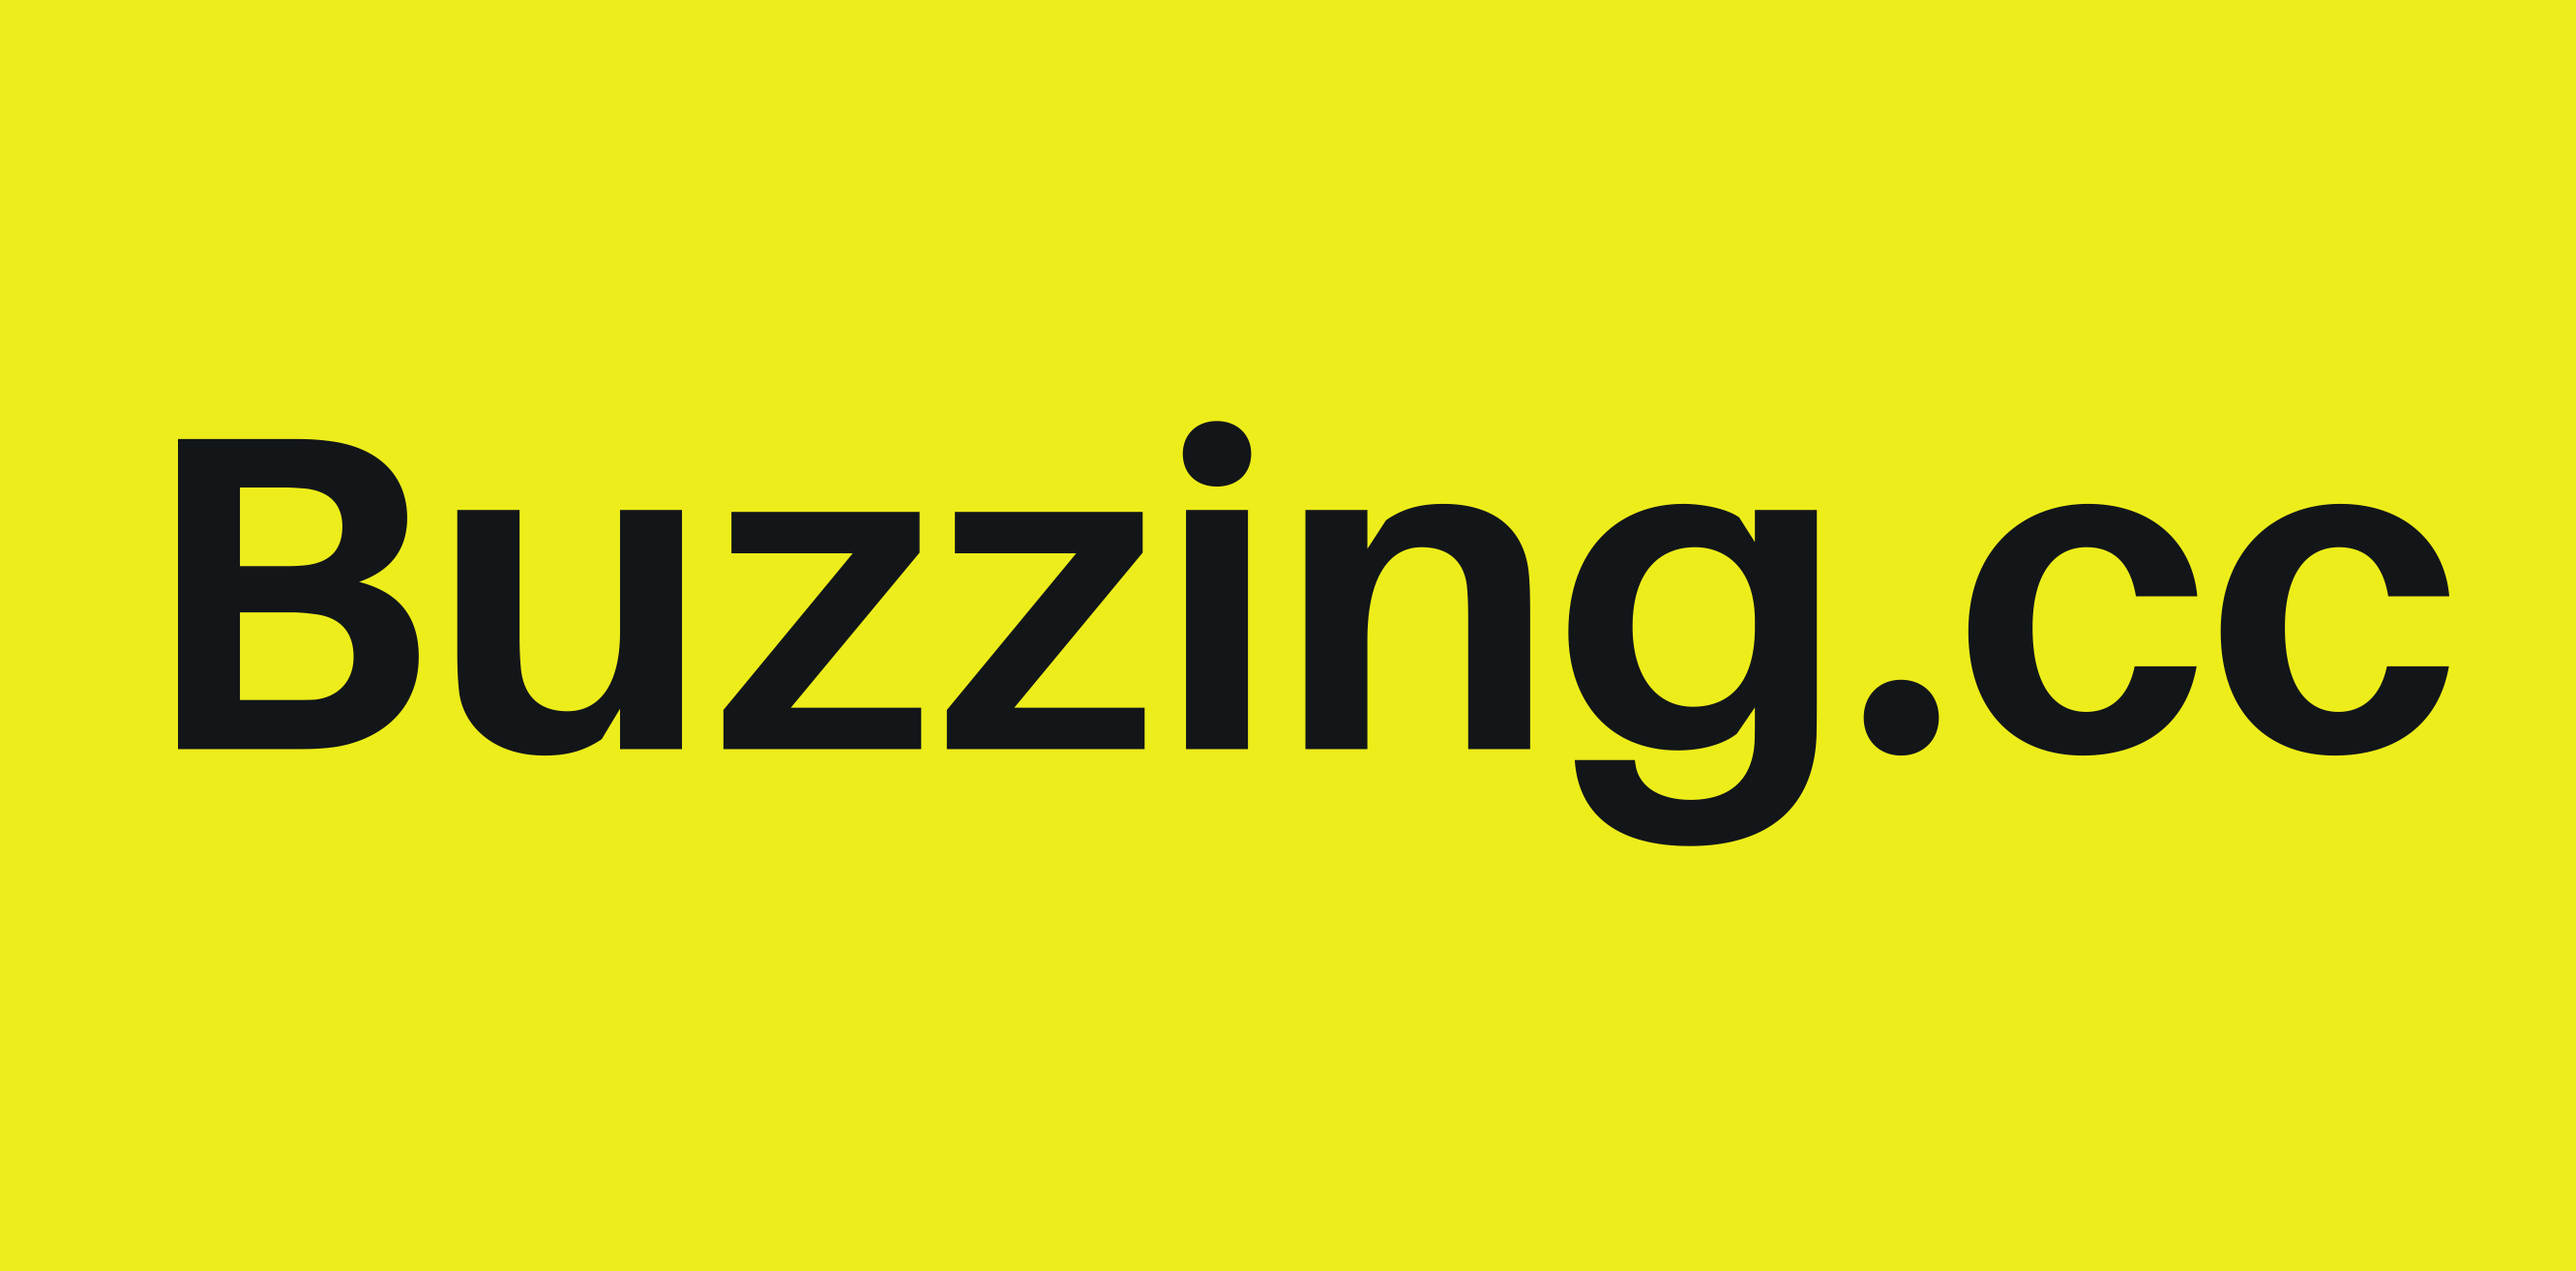
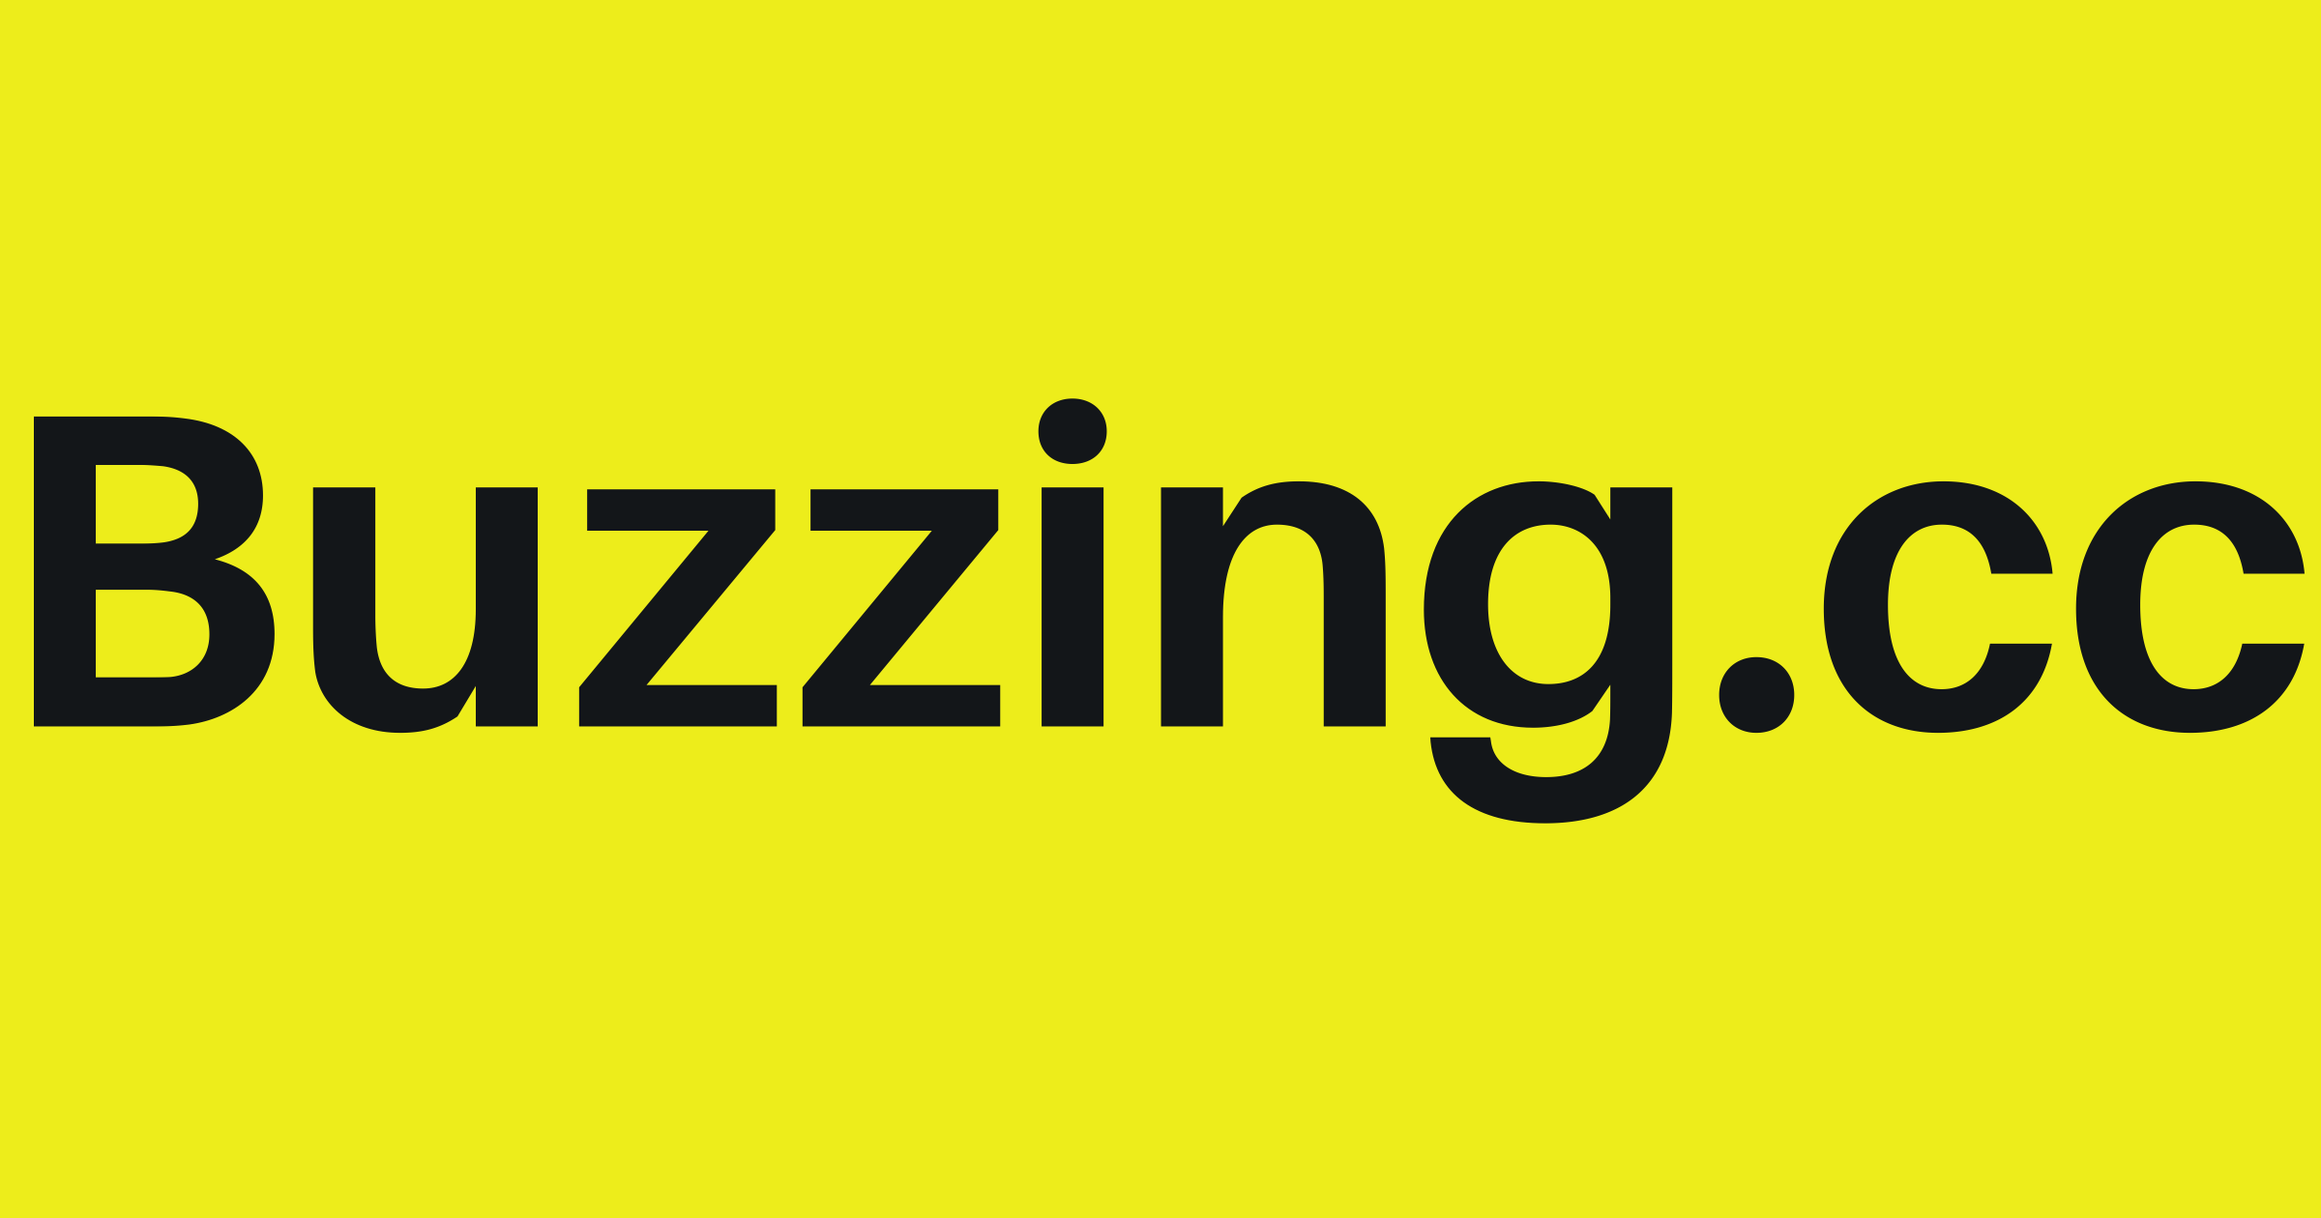
chore: 🤖 update

Changed region(s): [[0.0, 0.3095, 0.5625, 0.619], [0.5625, 0.3714, 1.0, 0.681]]

diff --git a/src/pages/index.js b/src/pages/index.js
@@ -65,7 +65,7 @@ export const pageQuery = graphql`
   query($locale: String!) {
     cover: file(absolutePath: { regex: "/cover.(jpeg|jpg|gif|png)/" }) {
       childImageSharp {
-        fixed(width: 876, height: 438) {
+        fixed(width: 1200, height: 630) {
           ...GatsbyImageSharpFixed
         }
       }
